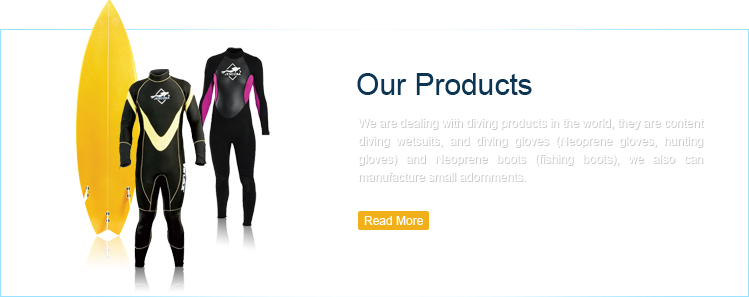
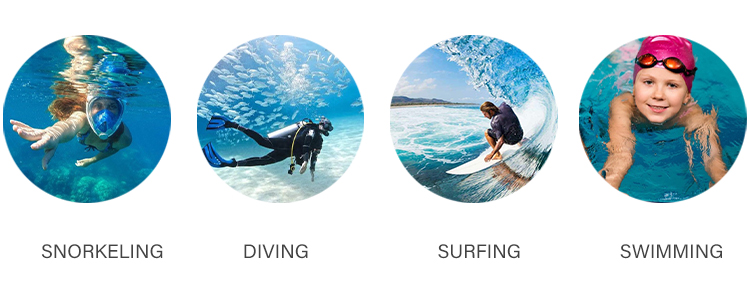
修改部分图片、样式

diff --git a/company-api/src/main/resources/templates/index.htm b/company-api/src/main/resources/templates/index.htm
@@ -28,11 +28,10 @@
 
                 <div class="main_top">
                     <div class="HotAboutUs">
-                        <div class="title"><h2>About Us</h2></div> <!-- <h3><label>Hot About Us</label></h3><br/> -->
-                        <div class="detail"><div><P><STRONG><SPAN style="COLOR: #03243b"><SPAN style="FONT-SIZE: 14px"><SPAN style="FONT-FAMILY: arial,helvetica,sans-serif">Probooming is one of the most professional surfing &amp; diving apparatus manufacturers and traders in China. We design, produce and sell wetsuits, rash guards, gloves, boots as well as other stuff for surfing and diving. Nowadays, Prebooming has customers in USA, Europe, South America, Australia, etc.</SPAN></SPAN></SPAN></STRONG></P>
+                        <div class="title"><h2 style="display: block">Our Products</h2></div> <!-- <h3><label>Hot About Us</label></h3><br/> -->
+                        <div class="detail"><div><P><STRONG><SPAN style="COLOR: #03243b"><SPAN style="FONT-SIZE: 14px"><SPAN style="FONT-FAMILY: arial,helvetica,sans-serif">We are dealing with water sport products in the world, our products  are Snorkeling products (full face snorkeling masks, snorkeling fins) Diving products(neoprene wetsuit,neoprene gloves,neoprene boots, diving mask &fin&snorkel), Surfing products (sup, surfboard leashes,rash guard) and Swimming products (swimming goggles, swimming cap). We can do OEM or ODM based on your requirements.</SPAN></SPAN></SPAN></STRONG></P>
 
                         </div></div>
-                        <label class="more"><a href="aboutus.html">Read more</a></label>
 
                     </div>
 

diff --git a/company-api/src/main/resources/templates/aboutus.htm b/company-api/src/main/resources/templates/aboutus.htm
@@ -20,8 +20,22 @@
             <!-- nav -->
             <#include "ftl/nav.ftl"/>
 
+            <h3>About Us</h3>
+
             <!-- start content -->
-                About Us.
+            <div style="
+                          font-size: 14PX;
+                          font-family: arial,helvetica,sans-serif;
+                          text-align: justify;
+                          line-height: 2;">
+                <p>
+                    <strong>PREBOOMING</strong> is one of the most professional water sports goods like the snorkeling ,diving ,surfing and swimming products manufacturer in China. We design, produce and sell full face snorkeling masks, snorkeling fins, diving wetsuit, diving mask&fin&snorkel, neoprene gloves, neoprene boots, sup, surfboard leash, rash guard, swimming goggles and swimming caps.
+                </p>
+                <p>
+                    Nowadays, <strong>PREBOOMING</strong> has customers in USA, Europe, South America, Australia, New Zealand ,Canada,etc. We could do OEM and ODM service for you. Olny you have any requirements,please let us know and feel free to contact us.  Thank you.
+                </p>
+
+            </div>
             <!-- end content -->
 
         </div>

diff --git a/company-api/src/main/resources/templates/contactus.htm b/company-api/src/main/resources/templates/contactus.htm
@@ -21,7 +21,16 @@
             <#include "ftl/nav.ftl"/>
 
             <!-- start content -->
-                Contact Us.
+            <h3>Contact Us</h3>
+            <div class="content" style="font-size: 14px; line-height: 4;">
+                <ul>
+                    <li><strong>Shanghai Office</strong></li>
+                    <li><strong>Name:<span class="Apple-converted-space">&nbsp;</span></strong>Annie</li>
+                    <li><strong>Tel:</strong> 86-130-24178846</li>
+                    <li><strong>Email:<span class="Apple-converted-space">&nbsp;</span></strong><a href="mailto:annie06121126@163.com?subject=">annie06121126@163.com</a>&nbsp;<a style="COLOR: rgb(255,255,255)" href="http://localhost/html/feedback.html"></a></li>
+                    <li></li>
+                </ul>
+            </div>
             <!-- end content -->
 
         </div>

diff --git a/company-api/src/main/resources/static/css/hotblock.css b/company-api/src/main/resources/static/css/hotblock.css
@@ -7,7 +7,7 @@ label.more a{ margin-right:10px;  }
 /*-----------HotAboutUs-------------*/
 
 .HotAboutUs{ float:left;}
-.HotAboutUs .title{background:url(images/about_title.png) no-repeat left top; height:35px;}
+/*.HotAboutUs .title{background:url(images/our-products.jpg) no-repeat left top; height:35px;}*/
 .HotAboutUs .title h2{ display:none;}
 .HotAboutUs .detail{  padding:10px; text-align:justify; text-justify:distribute; line-height:21px; overflow:hidden; height:125px; }
 .HotAboutUs label{ float:left; padding:10px;background:url(images/more.png) no-repeat 10px center; width:65px; }
